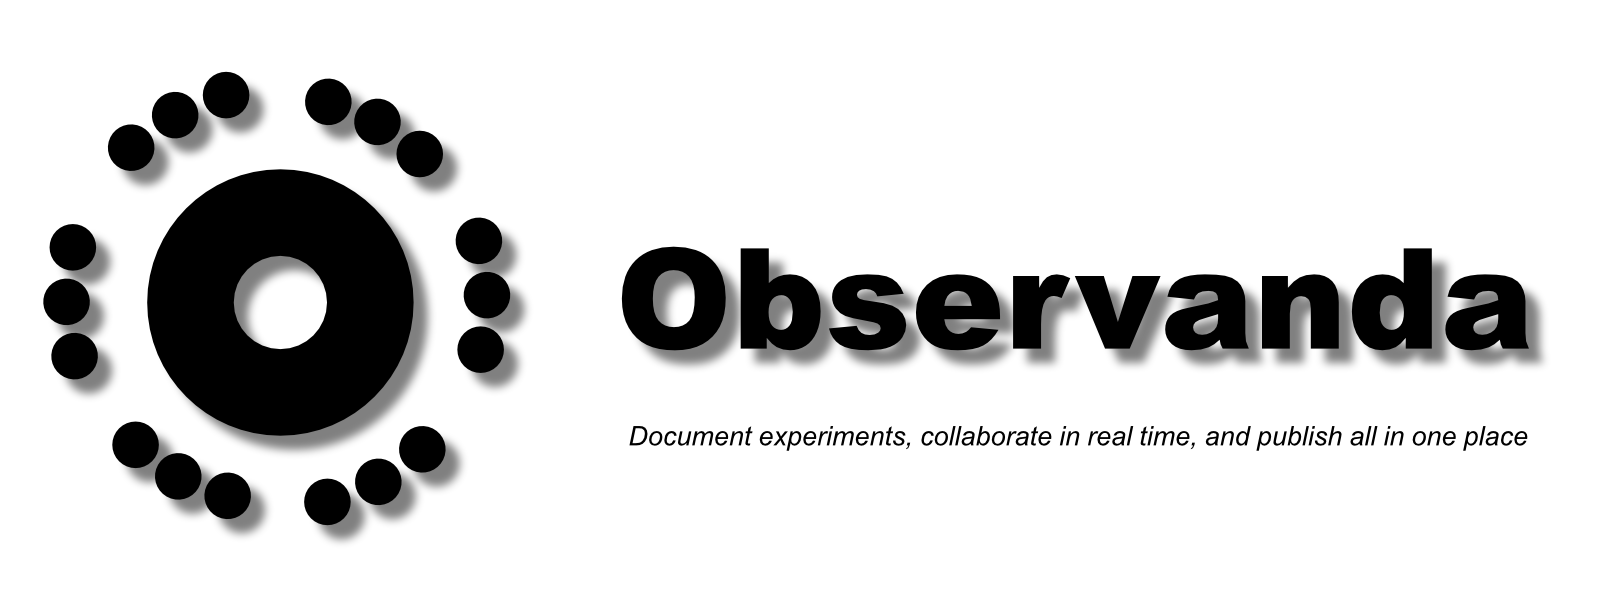
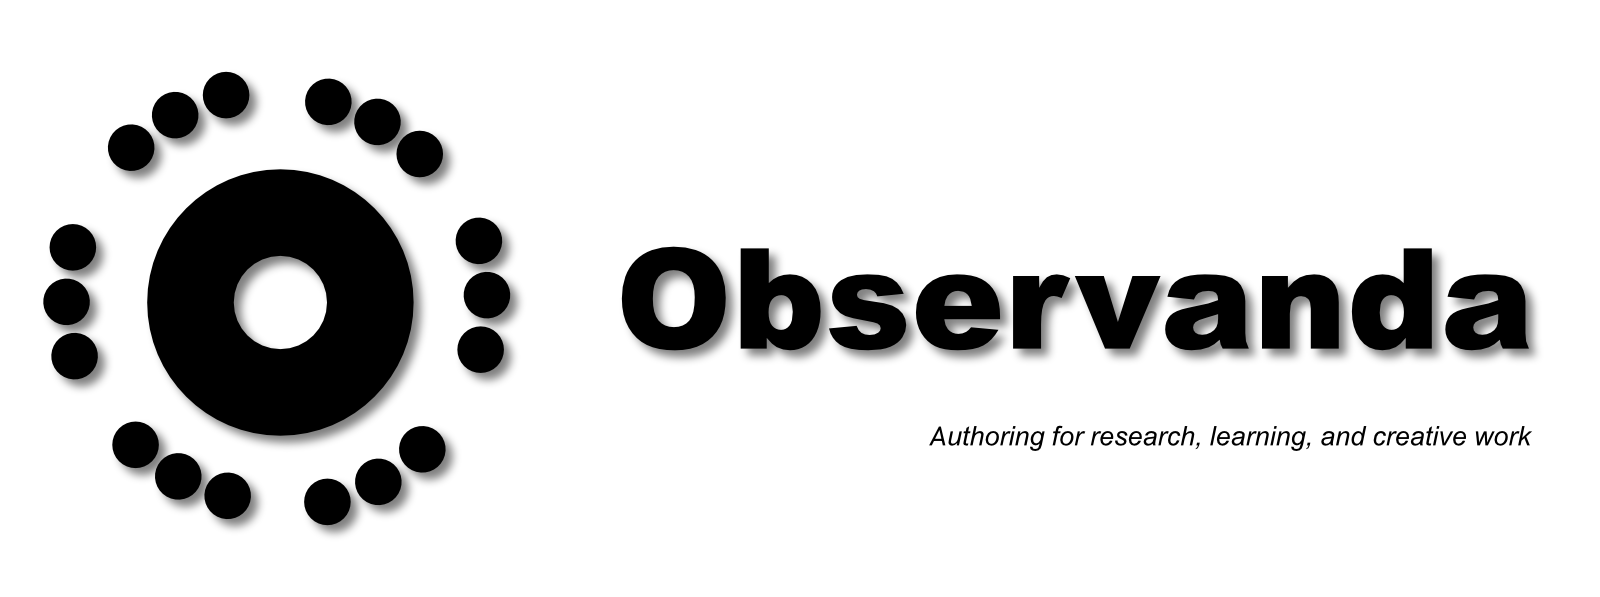
Added readme

diff --git a/README.md b/README.md
@@ -1,0 +1,130 @@
+![Observanda](observanda_banner.png)
+
+# Observanda
+
+[![Hippocratic License HL3-FULL](https://img.shields.io/static/v1?label=Hippocratic%20License&message=HL3-FULL&labelColor=5e2751&color=bc8c3d)](LICENSE.md)
+[![Sponsor Observanda](https://img.shields.io/badge/Sponsor-Observanda-ea4aaa?logo=githubsponsors&logoColor=white)](https://github.com/sponsors/Seigr-lab)
+
+**A local authoring workspace for research, learning, and creative work.**
+
+Observanda combines writing, evidence, project tools and visual publishing. Use it for a field book, research notebook, studio journal, technical documentation or teaching material, and share your work as PDFs, printed documents or websites.
+
+Organize your work locally, connect it to its sources, and choose what to share. Everyday authoring does not require a cloud account or an internet connection.
+
+## Alpha release
+
+**Observanda is currently an Alpha release. It still needs more testing, and some features and workflows are not yet fully implemented.** Bugs and changes in behaviour should be expected; this is not a stable release.
+
+Use copies of important work when evaluating the Alpha, keep independent backups, and check exported or published material before sharing it.
+
+## Organize work around your projects
+
+**Workspace → Projects → Lab books → Records**
+
+Keep separate workspaces for personal work, a studio, a laboratory or an organization. Projects can contain subprojects and several lab books, each following its own subject or activity.
+
+Start with a blank book, choose a starter template or define your own record types and fields. Books in the same project can use different structures. Enable only the templates and tools you need.
+
+Projects and lab books can be moved or copied individually with their records, revision history and original evidence. You do not need to transport an entire workspace to take one project with you.
+
+## Write, read and connect
+
+- **Compose rich documents.** Combine formatted writing, headings, tables, equations, code blocks, citations, images and figures.
+- **Adapt the structure.** Add custom fields, tags and reusable record templates for the information you need to capture.
+- **Link precise content.** Connect records, methods, runs and results, or reference a particular heading, table, equation or figure. Choose a current reference or an exact saved revision.
+- **Follow the history.** Inspect earlier revisions and see how writing, evidence and interpretations developed.
+- **Read across a book.** Browse full records without entering the editor, search and filter your material, and follow related work and incoming references.
+
+A journal can remain a journal. Hypotheses, formal criteria and pass/fail outcomes are optional.
+
+## Keep evidence connected to the work
+
+Retain original images, recordings, instrument output, source documents and other files alongside the observations and interpretations they support.
+
+Document preparations, methods, conditions, repeated attempts, events and assessments. Link assessments to the preparation and evidence they use, including unsuccessful, partial or inconclusive attempts.
+
+Data tools let you:
+
+- Import tabular data and describe columns, units, numeric representations and missing values.
+- Keep original values and source references while creating revised schemas, calculations, grouped summaries and comparisons.
+- Retain external analyses with their methods, inputs and outputs.
+- Inspect a measurement's supporting data and, where a source mapping exists, follow it to the original bytes or fields.
+- Create figures with panels, annotations, intervals and boundaries, while retaining the data and interpretation behind them.
+
+## Tools for everyday work
+
+Enable the tools you need alongside your books.
+
+| Tool | What it supports |
+| --- | --- |
+| Scientific calculator | Expressions, units, statistics and exact integer base conversion. |
+| Stoichiometry | Molar masses, solutions, limiting reagents and reaction yields. |
+| Spreadsheet | Tables, formulas and delimited-file imports with original values retained. |
+| Chemical structures | CDXML drawings and SMILES imports, with original files preserved. |
+| Sample analysis | Sample registers, analysis results and result sheets. |
+| Inventory | Materials, equipment, software, stock movements, reservations and bills of materials. |
+| Calendar and planning | Calendars, events, tasks, prerequisites and equipment bookings. |
+| Timeline | Chronological views combining selected projects and lab books. |
+
+For example, connect a prototype's bill of materials to its components, keep assembly observations in a lab book, reserve equipment for a test, and retain the resulting measurements with that experiment.
+
+## Create PDFs and printed documents
+
+Create independent documents in the PDF editor, combining authored text with selected research from projects and lab books. Include observations, tables, figures and images, and keep saved editions as the document develops.
+
+Edit page dimensions, margins, columns, fonts, headers and footers. Arrange images with captions and alternative text, add section notes and endnotes, and reuse saved layouts. Preview and export PDFs in the desktop app for sharing or printing.
+
+Choose a private or public edition and include or omit individual sections. Public output requires review of the exact included content; later content or document-setting changes require a new review. Retained PDF exports remain available to download after further edits.
+
+## Create independent websites
+
+Use the visual website editor for a personal site, portfolio, field guide, project journal, teaching resource or documentation website. Build entirely from custom pages, include selected material from several lab books and projects, or combine both.
+
+Create multiple independent websites, each with its own pages, design, public content selection and publishing destination. Choose its content independently of the lab-book hierarchy.
+
+- Compose pages and arrange text, images, galleries and selected research content.
+- Choose fonts and colours, and customize shared or page-specific headers, sidebars and footers.
+- Select the records, sections, attachments, figures and supporting data that belong in each public edition.
+- Preview and review an edition before publishing.
+- Publish to GitHub Pages, deploy to an SSH host or export static files for another host.
+- Retain prepared editions for later review and republication.
+
+Website design is separate from the app's appearance. Publishing selected work does not publish the whole workspace, and website visitors do not need Observanda installed.
+
+## Share work and request reviews
+
+Exchange encrypted shared copies for offline collaboration. Collaborators can work with the ordinary lab-book tools and return their edits; the owner reviews changes and conflicts before accepting them.
+
+Request digitally signed reviews of specific saved record revisions. A review identifies what was examined, and later changes remain distinguishable from the reviewed version.
+
+Organizations and teams provide membership, invitations and administration. Membership is separate from permission to open research: joining a team does not automatically grant access to its workspaces or lab books.
+
+## Make it fit your work
+
+Starter templates cover research and development, analytical and quality-control work, education, clinical and forensic documentation, biosafety, environmental and agricultural work, computing, physical prototyping, audio software, creative practice and beekeeping. Adapt them or create your own.
+
+An ecology project could combine seasonal observations, hive inspections and a public nature journal. An instrument-building project could connect circuit trials, parts, recordings and a build guide. A studio could keep material studies and critiques beside a portfolio. A personal book could follow recipes, fermentation batches, repairs or night-sky observations.
+
+## Keep control of your work
+
+Workspaces use encrypted storage with password and authorized-device access, recovery options, and encrypted backup and restore. Keep independent backups and recovery material separately from the working copy.
+
+Local authoring, collaboration and public publishing are separate choices. You decide which work stays private and which material belongs in each shared copy or website.
+
+Adjust interface language, text size and spacing independently of your published designs.
+
+## Support Observanda's development
+
+You can help further Observanda's development by [becoming a sponsor on GitHub](https://github.com/sponsors/Seigr-lab). Contributions support development time, testing and documentation, including improvements to authoring, project portability, and PDF and website publishing.
+
+## Help and feedback
+
+Search the offline guide under **Preferences → Help**. Report bugs or suggest improvements through [GitHub Issues](https://github.com/Seigr-lab/Observanda/issues), using examples that do not contain private work or credentials.
+
+Submitting a suggestion or reporting a bug does not guarantee a response, investigation, implementation, fix or delivery date. At the moment, there is no support contract or service-level commitment.
+
+## License
+
+Observanda is available under the **Hippocratic License 3.0, full version (HL3-FULL)**, which includes ethical conditions on use and distribution. See [LICENSE.md](LICENSE.md) for the complete terms.
+
+**The software is provided as is, without warranty or guarantees**, as set out in the license.
